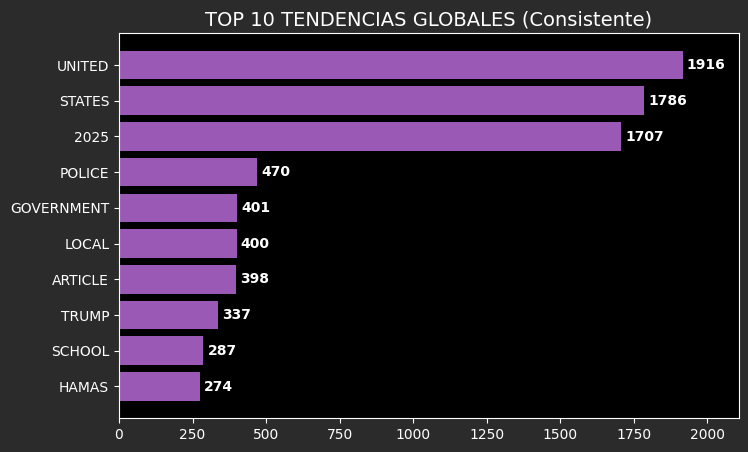
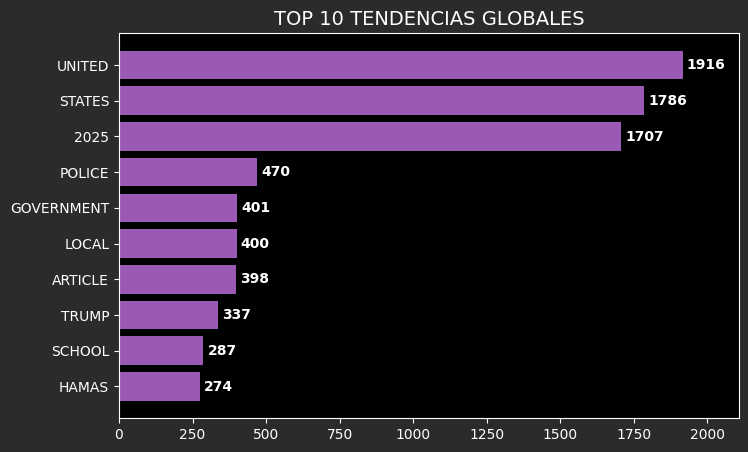
feat: Refactor top 10 trends calculation to use merge sort for improved accuracy

Changed region(s): [[0.2767, 0.0, 0.8917, 0.0619]]

diff --git a/app_interface.py b/app_interface.py
@@ -257,8 +257,25 @@ class NewsAnalyzerApp(ctk.CTk):
 
         # 3. Ordenar y Graficar
         from collections import Counter
+
+
         counter = Counter(all_words)
-        top_10 = counter.most_common(10)
+
+        # Convertimos el contador a una lista de tuplas: [('word', 50), ('other', 20)...]
+        items = list(counter.items())
+
+        # Usamos merge_sort ordenando por el segundo elemento (la frecuencia)
+        # Nota: Merge Sort ordena de menor a mayor.
+        try:
+            sorted_items = merge_sort(items, key_func=lambda x: x[1])
+
+            # Como queremos los mayores, tomamos los últimos 10 y le damos la vuelta
+            top_10 = sorted_items[-10:]  # Los 10 del final (los más grandes)
+            top_10.reverse()  # Para que el #1 quede primero
+
+        except Exception as e:
+            print(f"Error en Merge Sort: {e}, usando backup...")
+            top_10 = counter.most_common(10)
 
         words_plot = [x[0].upper() for x in top_10]
         counts_plot = [x[1] for x in top_10]
@@ -270,7 +287,7 @@ class NewsAnalyzerApp(ctk.CTk):
         ax.invert_yaxis()
 
         ax.bar_label(bars, padding=3, color='white', fontsize=10, fontweight='bold')
-        ax.set_title("TOP 10 TENDENCIAS GLOBALES (Consistente)", color='white', fontsize=14)
+        ax.set_title("TOP 10 TENDENCIAS GLOBALES", color='white', fontsize=14)
         ax.margins(x=0.1)
 
         filename = "chart_top10.png"
